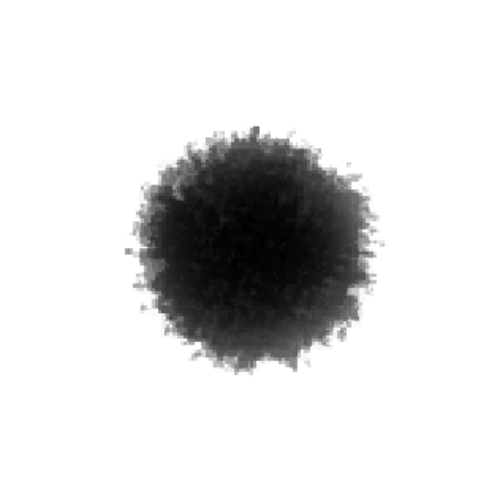
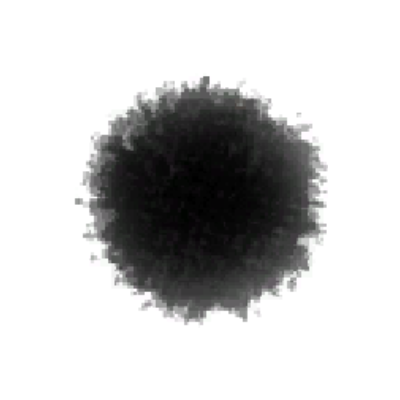
more experimentation with brush effect

Changed region(s): [[0.18, 0.18, 0.84, 0.81]]

diff --git a/src/main.ts b/src/main.ts
@@ -1,28 +1,29 @@
 import { mat4 } from 'gl-matrix';
 
 import {
-  SILHOUETTE_VERTEX_SHADER,
-  SILHOUETTE_FRAGMENT_SHADER,
+  VERTEX_SHADER,
+  FRAGMENT_SHADER,
 } from './lib/shaders';
+import { CLEAR_COLOR } from './lib/constants';
 
 import Scene from './lib/Scene';
 import Camera from './lib/Camera';
 import RenderFrame from './lib/RenderFrame';
-import Shader from './lib/Shader';
+import Shader, { ShaderAttribute } from './lib/Shader';
 import Plane from './lib/Plane';
 
 const plane = new Plane();
 
-function initSilhouetterFrame(
+function initLandscapeFrame(
   camera: Camera,
   gl: WebGLRenderingContext,
-) {
+): RenderFrame {
   return new RenderFrame({
     gl,
     shader: new Shader({
       gl,
-      vertexShader: SILHOUETTE_VERTEX_SHADER,
-      fragmentShader: SILHOUETTE_FRAGMENT_SHADER,
+      vertexShader: VERTEX_SHADER,
+      fragmentShader: FRAGMENT_SHADER,
       attributes: {
         aPlaneVertex: {
           locationName: 'a_PlaneVertex',
@@ -63,10 +64,25 @@ function initSilhouetterFrame(
           data: .6,
           type: Shader.Types.FLOAT,
         },
-        uTextureSampler: {
-          locationName: 'u_TextureSampler',
+        uBrushTextureSampler: {
+          locationName: 'u_BrushTextureSampler',
           data: 0,
           type: Shader.Types.INTEGER,
+        },
+        uShadingTextureSampler: {
+          locationName: 'u_ShadingTextureSampler',
+          data: 1,
+          type: Shader.Types.INTEGER,
+        },
+        uLightPosition: {
+          locationName: 'u_LightPosition',
+          data: [0, 50, -20],
+          type: Shader.Types.VECTOR3,
+        },
+        uFogColor: {
+          locationName: 'u_FogColor',
+          data: CLEAR_COLOR.slice(0, 3),
+          type: Shader.Types.VECTOR3,
         },
       },
     }),
@@ -87,18 +103,13 @@ function initSilhouetterFrame(
   });
 
   const scene = new Scene(canvas);
-  const image =
+  const brushTexImg =
     <HTMLImageElement>document.getElementById('brush-texture');
-  scene.setImageTexture('brush', image);
+  const shadingTexImg =
+    <HTMLImageElement>document.getElementById('shading-texture');
+  scene.setImageTexture('brush', brushTexImg);
+  scene.setImageTexture('shading', shadingTexImg);
   scene.setRenderFrame(
-    'silhouette', initSilhouetterFrame.bind(null, camera));
-
-  scene.render(false, (firstRender: boolean) => {
-    const silhouette = scene.getRenderFrame('silhouette');
-    const brushTexture = scene.getImageTexture('brush');
-    scene.gl.activeTexture(scene.gl.TEXTURE0);
-    scene.gl.bindTexture(
-      scene.gl.TEXTURE_2D, brushTexture);
-    silhouette.render(firstRender);
-  });
+    'landscape', initLandscapeFrame.bind(null, camera));
+  scene.render(true);
 })();

diff --git a/src/lib/Scene.ts b/src/lib/Scene.ts
@@ -59,7 +59,7 @@ export default class Scene {
     this.renderFrames[key] = callback(this.gl);
   }
 
-  public render(animate = false, renderCallback: (firstRender: boolean) => void) {
+  public render(animate = false) {
     const now = Date.now();
     if (!this.lastRender) this.firstRender = now;
     if (
@@ -71,16 +71,26 @@ export default class Scene {
     ) {
       if (animate)
         window.requestAnimationFrame(
-          () => this.render(true, renderCallback));
+          () => this.render(true));
       return;
     }
     this.rendering = true;
     const time = animate ? -(now - this.firstRender) / 100 : 0;
-    renderCallback(!this.lastRender);
+    const landscape = this.getRenderFrame('landscape');
+    const brushTexture = this.getImageTexture('brush');
+    const shadingTexture = this.getImageTexture('shading');
+    landscape.shader.setUniformData('uTime', time);
+    this.gl.activeTexture(this.gl.TEXTURE0);
+    this.gl.bindTexture(
+      this.gl.TEXTURE_2D, brushTexture);
+    this.gl.activeTexture(this.gl.TEXTURE1);
+    this.gl.bindTexture(
+      this.gl.TEXTURE_2D, shadingTexture);
+    landscape.render(!this.lastRender);
     this.rendering = false;
     this.lastRender = now;
     if (animate)
       window.requestAnimationFrame(
-        () => this.render(true, renderCallback));
+        () => this.render(true));
   }
 }

diff --git a/src/lib/shaders.ts b/src/lib/shaders.ts
@@ -1,2 +1,5 @@
-export const SILHOUETTE_VERTEX_SHADER = require('../shaders/silhouette/vertex.glsl');
-export const SILHOUETTE_FRAGMENT_SHADER = require('../shaders/silhouette/fragment.glsl');
+export const VERTEX_SHADER =
+  require('../shaders/vertex.glsl');
+
+export const FRAGMENT_SHADER =
+  require('../shaders/fragment.glsl');

diff --git a/public/index.html b/public/index.html
@@ -14,6 +14,7 @@
       <canvas id="canvas"></canvas>
     </div>
     <img id="brush-texture" style="display:none;" src="/assets/brush.png">
+    <img id="shading-texture" style="display:none;" src="/assets/tones.jpg">
     <script src="/assets/bundle.js" type="text/javascript"></script>
   </body>
 </html>

diff --git a/src/lib/constants.ts b/src/lib/constants.ts
@@ -1,6 +1,6 @@
 import { vec4, vec3 } from 'gl-matrix';
 
-export const CLEAR_COLOR = vec4.fromValues(1, 1, 1, 1);
+export const CLEAR_COLOR = [1, 1, 1, 1];
 export const FRAME_RATE = 30;
 
 export const CAMERA_UP = vec3.fromValues(0, 1, 0);

diff --git a/src/lib/Shader.ts b/src/lib/Shader.ts
@@ -14,7 +14,7 @@ interface ShaderValue {
   buffer?: WebGLBuffer;
 }
 
-interface ShaderAttribute extends ShaderValue {
+export interface ShaderAttribute extends ShaderValue {
   location?: number;
 }
 

diff --git a/public/assets/styles.css b/public/assets/styles.css
@@ -1,5 +1,5 @@
 .container {
-  background: #333;
+  background: #fff;
   bottom: 0;
   left: 0;
   position: fixed;
